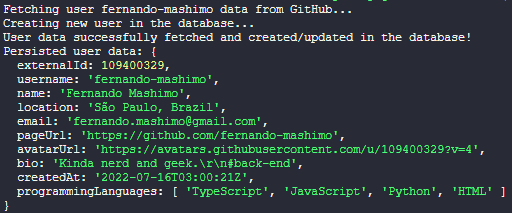
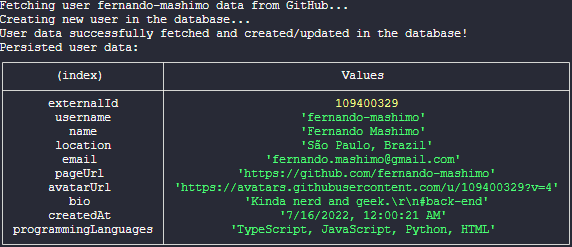
Replaced JSON-style data with Table

Changed region(s): [[0.0, 0.0, 1.0, 1.0]]

diff --git a/src/cliApp.test.ts b/src/cliApp.test.ts
@@ -15,7 +15,17 @@ const mockedUser: User = {
   pageUrl: "mocked-url",
   avatarUrl: "mocked-avatar-url",
   bio: "mocked bio",
-  createdAt: "mocked date",
+  createdAt: new Date("2025-01-01T00:00:00Z").toLocaleString("en-US", {
+    timeZone: "America/Sao_Paulo",
+  }),
+};
+
+const expectedUser = {
+  ...mockedUser,
+  createdAt: new Date(mockedUser.createdAt).toLocaleString("en-US", {
+    timeZone: "America/Sao_Paulo",
+  }),
+  programmingLanguages: mockedUser.programmingLanguages.join(", "),
 };
 
 const invalidArgumentsMessage =
@@ -46,48 +56,48 @@ describe("Should list users", () => {
     process.argv = ["node", "script", "list"];
 
     (getUsersByFilters as jest.Mock).mockResolvedValueOnce([mockedUser]);
-    const consoleSpy = jest.spyOn(console, "info");
+    const consoleSpy = jest.spyOn(console, "table");
 
     const exitCode = await main();
 
     expect(exitCode).toBe(0);
-    expect(consoleSpy).toHaveBeenCalledWith("Found users data:", [mockedUser]);
+    expect(consoleSpy).toHaveBeenCalledWith(expectedUser);
   });
 
   test("when list command provided with -l parameter", async () => {
     process.argv = ["node", "script", "list", "-l", "test location"];
 
     (getUsersByFilters as jest.Mock).mockResolvedValueOnce([mockedUser]);
-    const consoleSpy = jest.spyOn(console, "info");
+    const consoleSpy = jest.spyOn(console, "table");
 
     const exitCode = await main();
 
     expect(exitCode).toBe(0);
-    expect(consoleSpy).toHaveBeenCalledWith("Found users data:", [mockedUser]);
+    expect(consoleSpy).toHaveBeenCalledWith(expectedUser);
   });
 
   test("when list command provided with -p parameter", async () => {
     process.argv = ["node", "script", "list", "-p", "test"];
 
     (getUsersByFilters as jest.Mock).mockResolvedValueOnce([mockedUser]);
-    const consoleSpy = jest.spyOn(console, "info");
+    const consoleSpy = jest.spyOn(console, "table");
 
     const exitCode = await main();
 
     expect(exitCode).toBe(0);
-    expect(consoleSpy).toHaveBeenCalledWith("Found users data:", [mockedUser]);
+    expect(consoleSpy).toHaveBeenCalledWith(expectedUser);
   });
 
   test("when list command provided with --location parameter", async () => {
     process.argv = ["node", "script", "list", "--location", "test location"];
 
     (getUsersByFilters as jest.Mock).mockResolvedValueOnce([mockedUser]);
-    const consoleSpy = jest.spyOn(console, "info");
+    const consoleSpy = jest.spyOn(console, "table");
 
     const exitCode = await main();
 
     expect(exitCode).toBe(0);
-    expect(consoleSpy).toHaveBeenCalledWith("Found users data:", [mockedUser]);
+    expect(consoleSpy).toHaveBeenCalledWith(expectedUser);
   });
 
   test("when list provided with --programmingLanguages parameter", async () => {
@@ -100,12 +110,12 @@ describe("Should list users", () => {
     ];
 
     (getUsersByFilters as jest.Mock).mockResolvedValueOnce([mockedUser]);
-    const consoleSpy = jest.spyOn(console, "info");
+    const consoleSpy = jest.spyOn(console, "table");
 
     const exitCode = await main();
 
     expect(exitCode).toBe(0);
-    expect(consoleSpy).toHaveBeenCalledWith("Found users data:", [mockedUser]);
+    expect(consoleSpy).toHaveBeenCalledWith(expectedUser);
   });
 
   test("when list provided with -l and -p parameters", async () => {
@@ -120,12 +130,12 @@ describe("Should list users", () => {
     ];
 
     (getUsersByFilters as jest.Mock).mockResolvedValueOnce([mockedUser]);
-    const consoleSpy = jest.spyOn(console, "info");
+    const consoleSpy = jest.spyOn(console, "table");
 
     const exitCode = await main();
 
     expect(exitCode).toBe(0);
-    expect(consoleSpy).toHaveBeenCalledWith("Found users data:", [mockedUser]);
+    expect(consoleSpy).toHaveBeenCalledWith(expectedUser);
   });
 
   test("when provided --location and --programmingLanguages", async () => {
@@ -140,12 +150,12 @@ describe("Should list users", () => {
     ];
 
     (getUsersByFilters as jest.Mock).mockResolvedValueOnce([mockedUser]);
-    const consoleSpy = jest.spyOn(console, "info");
+    const consoleSpy = jest.spyOn(console, "table");
 
     const exitCode = await main();
 
     expect(exitCode).toBe(0);
-    expect(consoleSpy).toHaveBeenCalledWith("Found users data:", [mockedUser]);
+    expect(consoleSpy).toHaveBeenCalledWith(expectedUser);
   });
 });
 
@@ -200,14 +210,15 @@ describe("Should not list users", () => {
 describe("Should fetch/persist user data", () => {
   test("when provided a username", async () => {
     process.argv = ["node", "script", "fetch", "test-username"];
-    const consoleSpy = jest.spyOn(console, "info");
+    const consoleTableSpy = jest.spyOn(console, "table");
+    const consoleInfoSpy = jest.spyOn(console, "info");
     (fetchPersistUser as jest.Mock).mockResolvedValueOnce(mockedUser);
 
     const exitCode = await main();
 
     expect(exitCode).toBe(0);
-    expect(consoleSpy).toHaveBeenCalledWith("Persisted user data:", mockedUser);
-    expect(consoleSpy).toHaveBeenCalledWith(
+    expect(consoleTableSpy).toHaveBeenCalledWith(expectedUser);
+    expect(consoleInfoSpy).toHaveBeenCalledWith(
       "User data successfully fetched and created/updated in the database!"
     );
   });

diff --git a/src/cliApp.ts b/src/cliApp.ts
@@ -82,7 +82,15 @@ export const main = async (): Promise<number> => {
         console.info(
           "User data successfully fetched and created/updated in the database!"
         );
-        console.info("Persisted user data:", persistedUser);
+        console.info("Persisted user data:");
+        const { programmingLanguages, ...rest } = persistedUser;
+        console.table({
+          ...rest,
+          createdAt: new Date(rest.createdAt).toLocaleString("en-US", {
+            timeZone: "America/Sao_Paulo",
+          }),
+          programmingLanguages: programmingLanguages.join(", "),
+        });
       }
     } catch (error) {
       console.error(
@@ -107,7 +115,17 @@ export const main = async (): Promise<number> => {
           console.info("No users found in the database");
         }
       } else {
-        console.info("Found users data:", users);
+        console.info("Found users data:");
+        users.map((user) => {
+          const { programmingLanguages, ...rest } = user;
+          console.table({
+            ...rest,
+            createdAt: new Date(rest.createdAt).toLocaleString("en-US", {
+              timeZone: "America/Sao_Paulo",
+            }),
+            programmingLanguages: programmingLanguages.join(", "),
+          });
+        });
       }
     } catch (error) {
       console.error("An error occurred while fetching users:", error);
